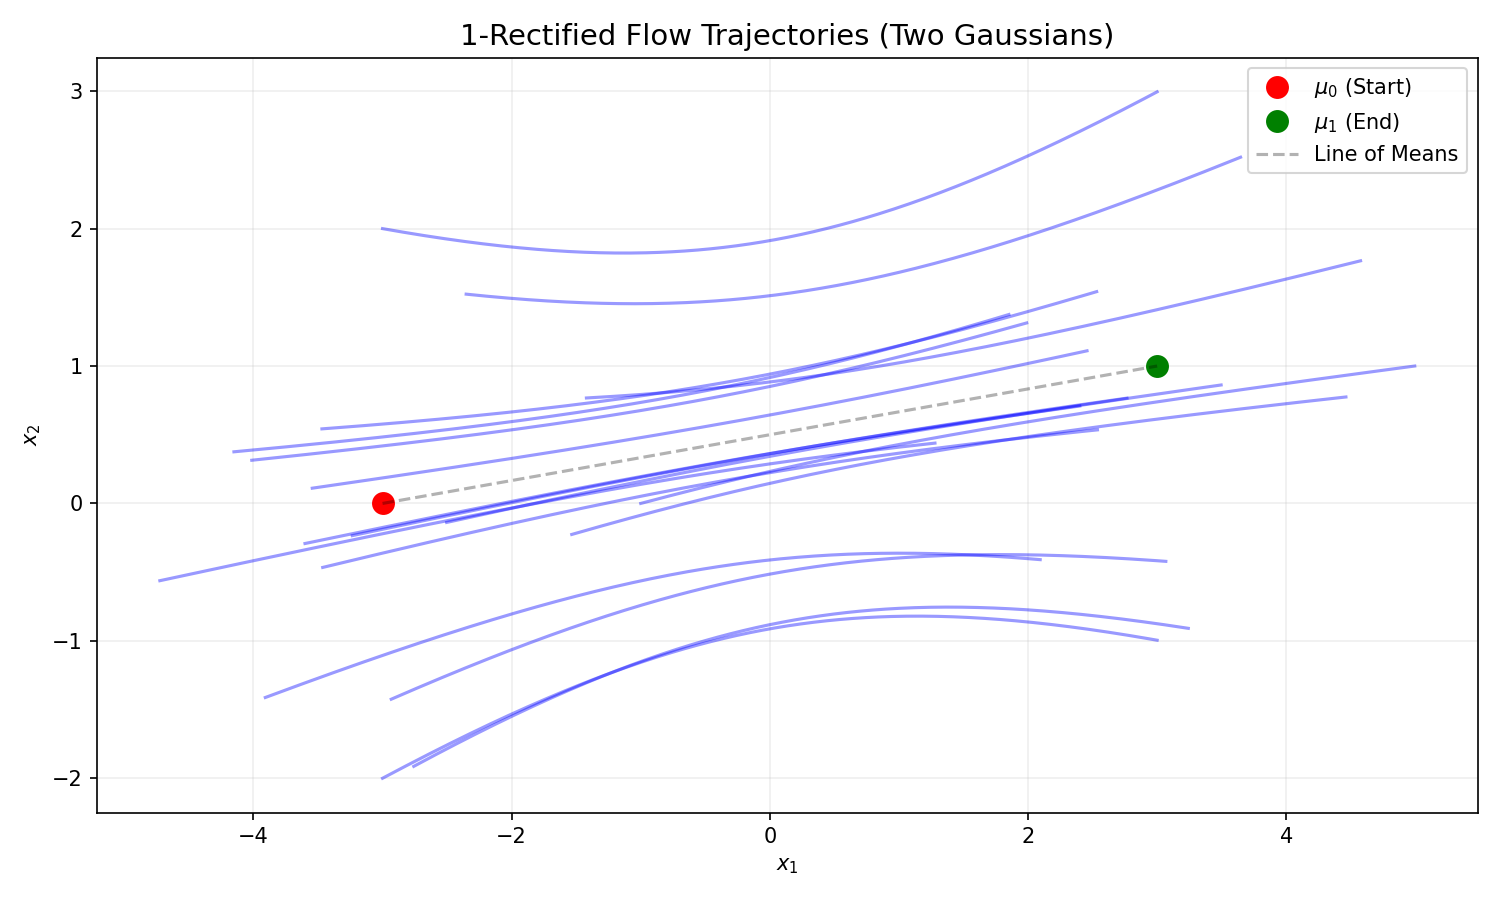
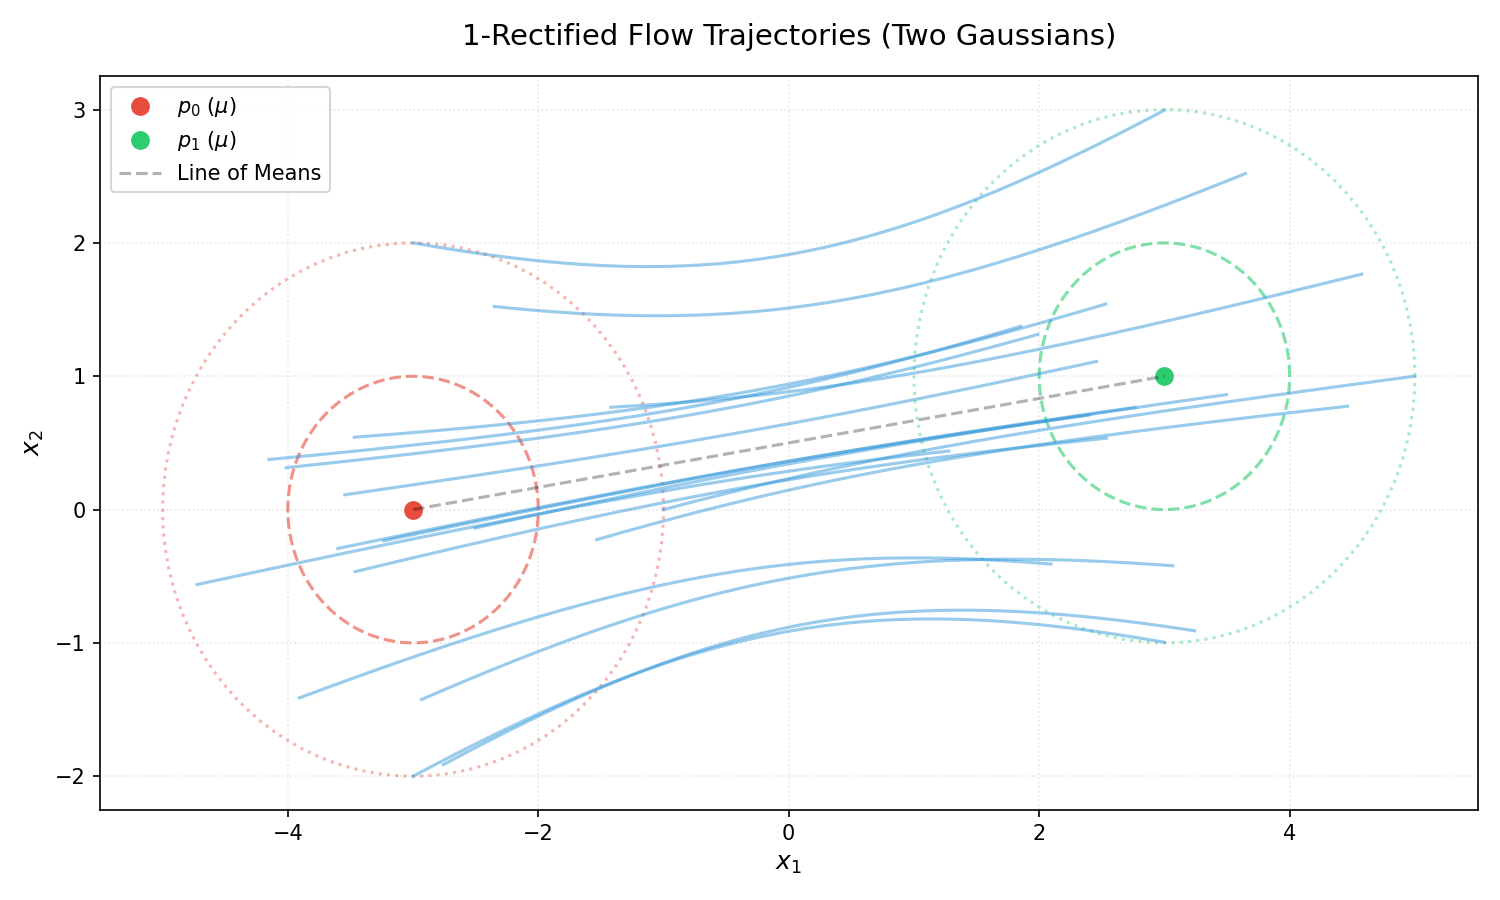
Publish rectified flow post, add citation component, and update trajectories plot

diff --git a/scripts/plot_gaussian_trajectories.py b/scripts/plot_gaussian_trajectories.py
@@ -52,23 +52,35 @@ initial_points.append(mu0 + np.array([0, -2]))
 initial_points.append(mu0 + np.array([2, 0])) # Between means
 
 # Solve ODE for each point
+# Plot 1-sigma and 2-sigma covariance circles
+theta = np.linspace(0, 2*np.pi, 100)
+for mu, color, label_prefix in [(mu0, '#e74c3c', '$p_0$'), (mu1, '#2ecc71', '$p_1$')]:
+    # 1-sigma
+    x_circle = mu[0] + sigma * np.cos(theta)
+    y_circle = mu[1] + sigma * np.sin(theta)
+    plt.plot(x_circle, y_circle, color=color, linestyle='--', alpha=0.6)
+    
+    # 2-sigma
+    x_circle2 = mu[0] + 2 * sigma * np.cos(theta)
+    y_circle2 = mu[1] + 2 * sigma * np.sin(theta)
+    plt.plot(x_circle2, y_circle2, color=color, linestyle=':', alpha=0.4)
+    
+    # Mean marker
+    plt.plot(mu[0], mu[1], 'o', color=color, markersize=8, label=f'{label_prefix} ($\mu$)')
+
+# Solve ODE for each point
 for x0 in initial_points:
     sol = solve_ode(x0, steps=300)
-    plt.plot(sol[:, 0], sol[:, 1], 'b-', alpha=0.4, linewidth=1.5)
-
-# Plot means
-plt.plot(mu0[0], mu0[1], 'ro', markersize=10, label='$\mu_0$ (Start)')
-plt.plot(mu1[0], mu1[1], 'go', markersize=10, label='$\mu_1$ (End)')
-
+    plt.plot(sol[:, 0], sol[:, 1], color='#3498db', alpha=0.5, linewidth=1.5)
 # Draw the straight line connecting means for reference
 plt.plot([mu0[0], mu1[0]], [mu0[1], mu1[1]], 'k--', alpha=0.3, label='Line of Means')
 
 # Styling
-plt.title('1-Rectified Flow Trajectories (Two Gaussians)', fontsize=14)
-plt.xlabel('$x_1$')
-plt.ylabel('$x_2$')
-plt.grid(True, alpha=0.2)
-plt.legend()
+plt.title('1-Rectified Flow Trajectories (Two Gaussians)', fontsize=14, pad=15)
+plt.xlabel('$x_1$', fontsize=12)
+plt.ylabel('$x_2$', fontsize=12)
+plt.grid(True, linestyle=':', alpha=0.3)
+plt.legend(frameon=True, fontsize=10, loc='upper left')
 plt.tight_layout()
 
 # Save
